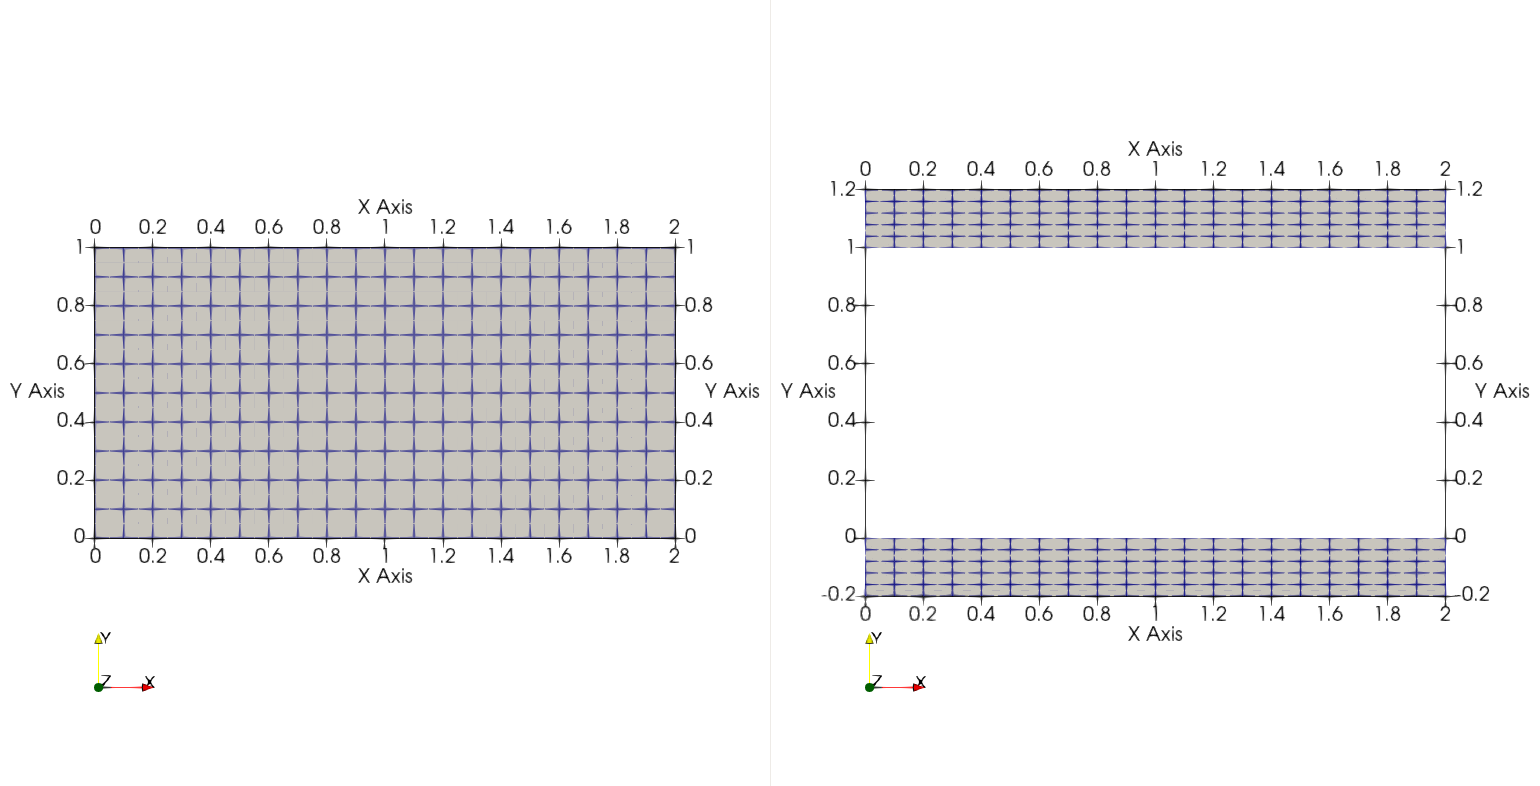
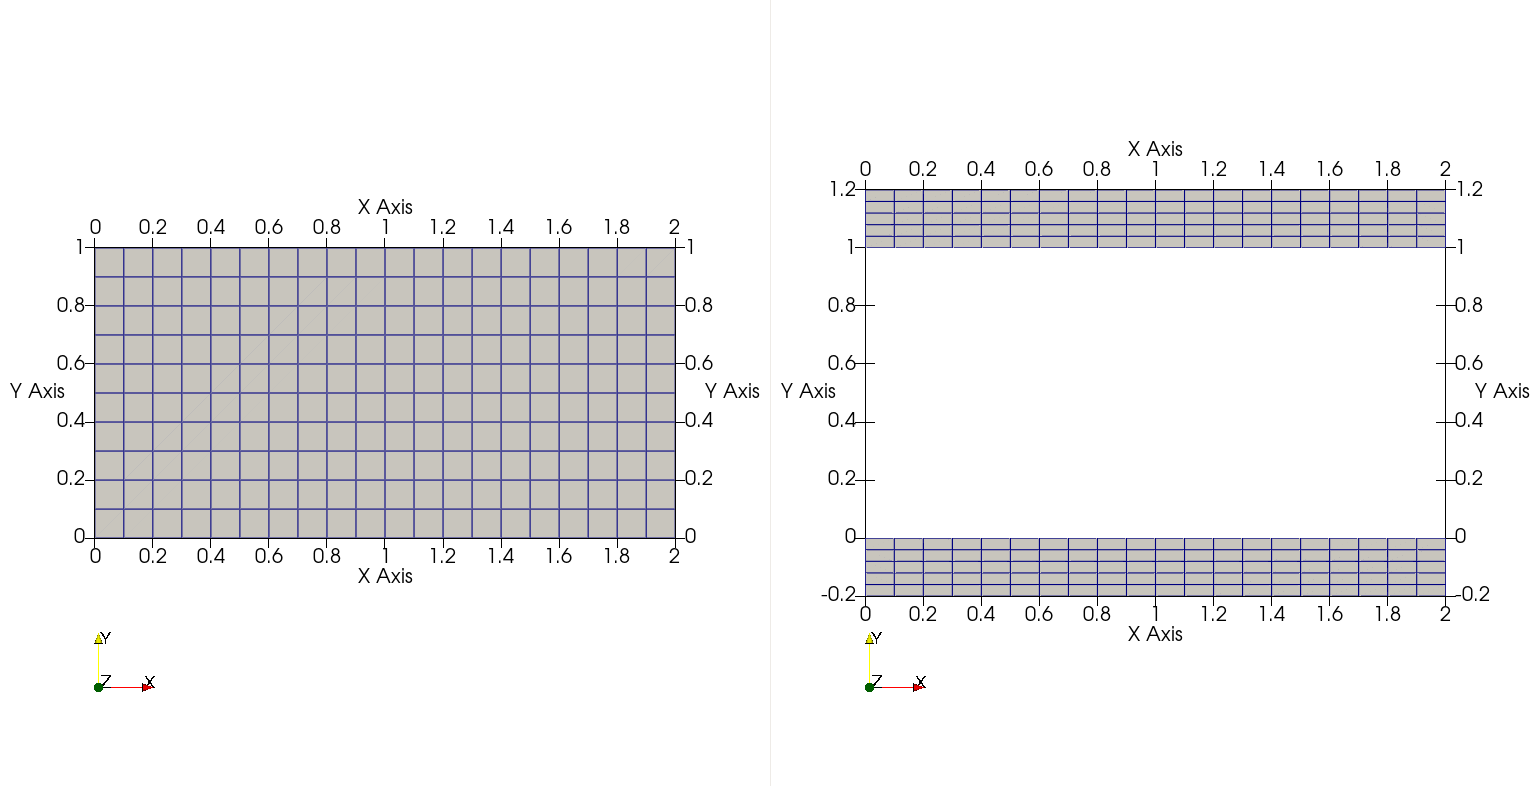
update CHT mesh figure

diff --git a/source/tutorials/conjugate_heat_transfer.rst b/source/tutorials/conjugate_heat_transfer.rst
@@ -69,7 +69,7 @@ _________________________________
    :align: center
    :figclass: align-center
 
-   z-normal view of fluid (left) and solid (right) subdomains
+   Z-normal view of fluid (left) and solid (right) subdomains. Hexahedral elements from Gmsh are shown.
 
 The fluid and solid subdomains for this example are as shown above.
 The base hexahedral mesh, generated using Gmsh, is also highlighted in the figure (see next section).
